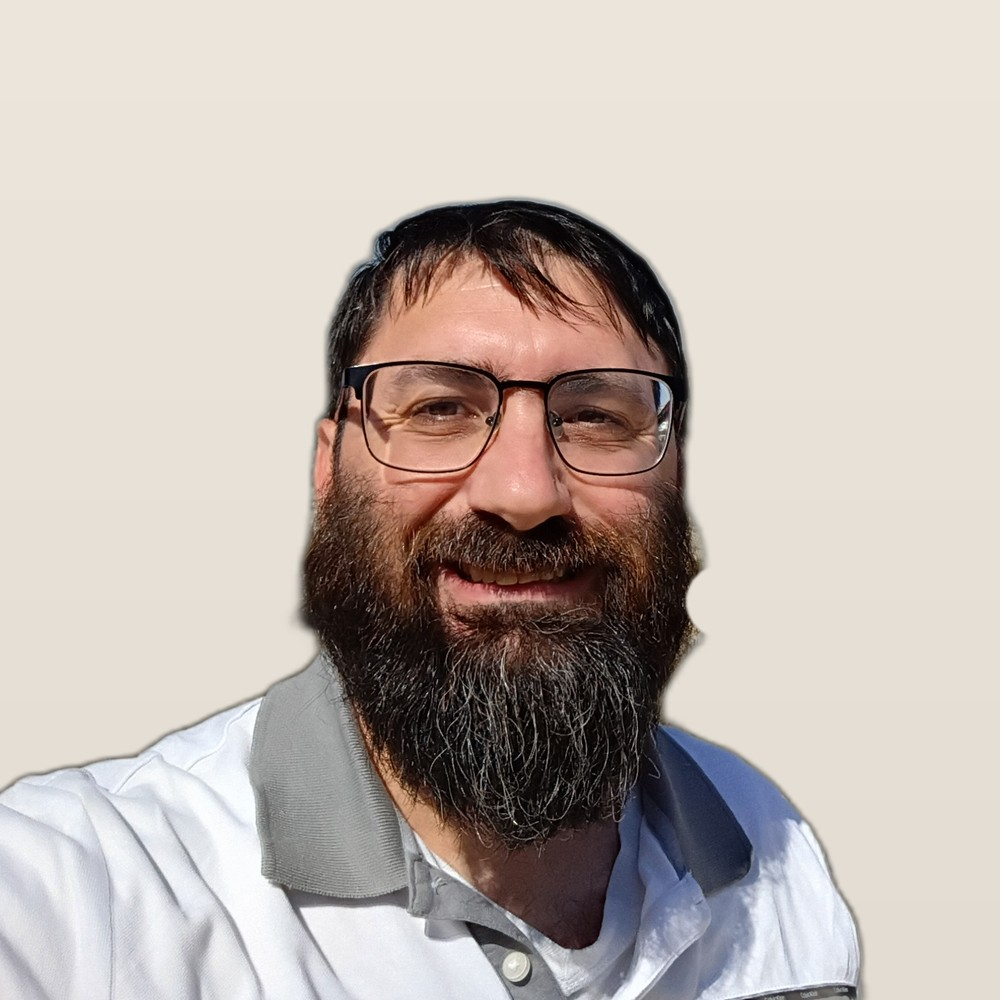
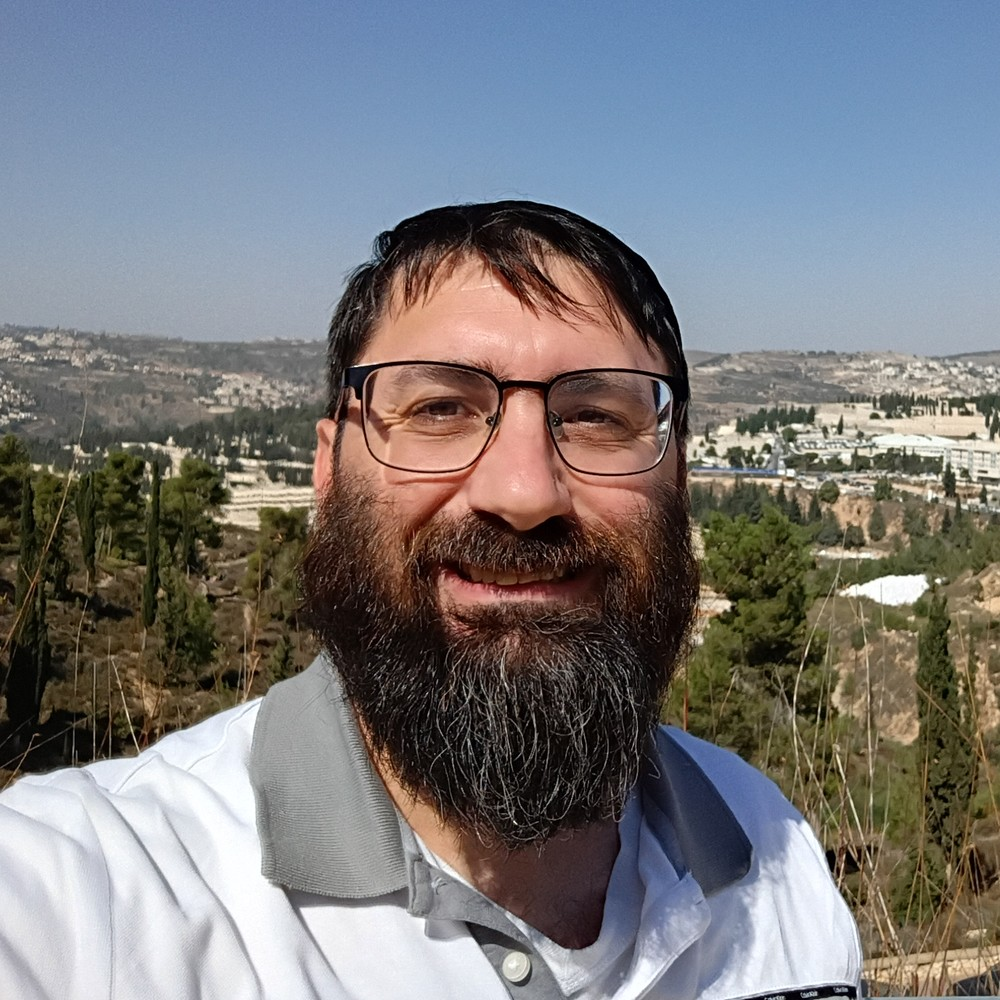
Use the smiling photo with its original background
Claude-Session: https://claude.ai/code/session_01P2fsSpp5LJyrgm7ofHkpMm

diff --git a/index.html b/index.html
@@ -113,7 +113,7 @@
                 </div>
                 <div class="hero-image">
                     <div class="profile-photo">
-                        <img src="profile-photo.jpeg?v=5" alt="Moshe Mash, Ph.D." class="profile-img">
+                        <img src="profile-photo.jpeg?v=6" alt="Moshe Mash, Ph.D." class="profile-img">
                     </div>
                     <div class="contact-info">
                         <div class="contact-item">
